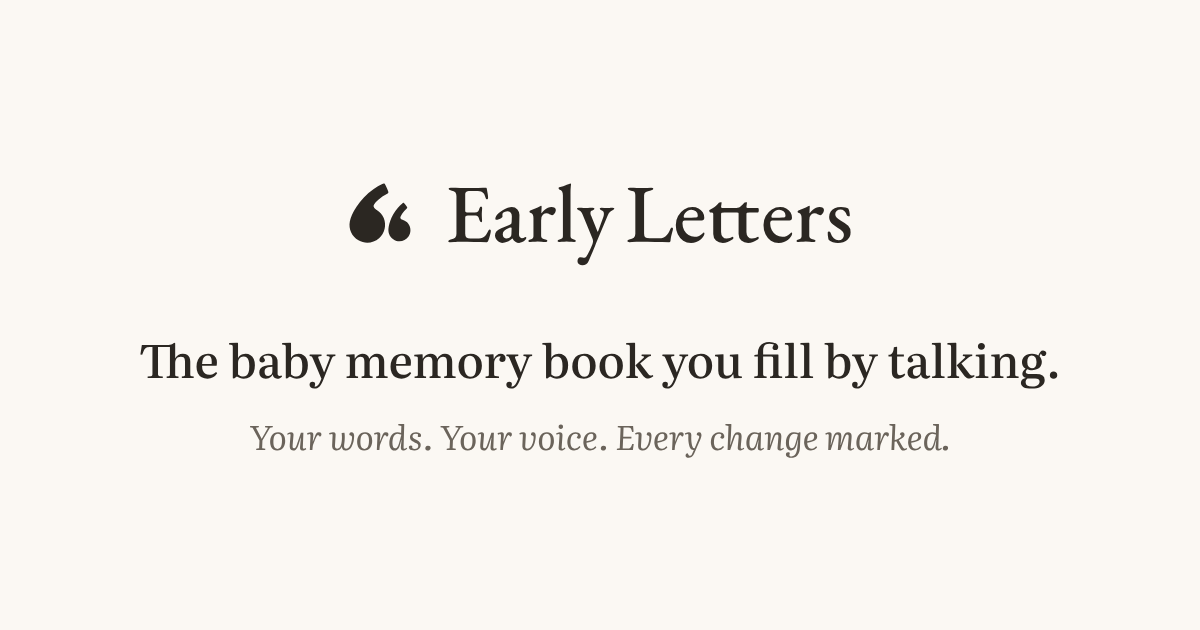
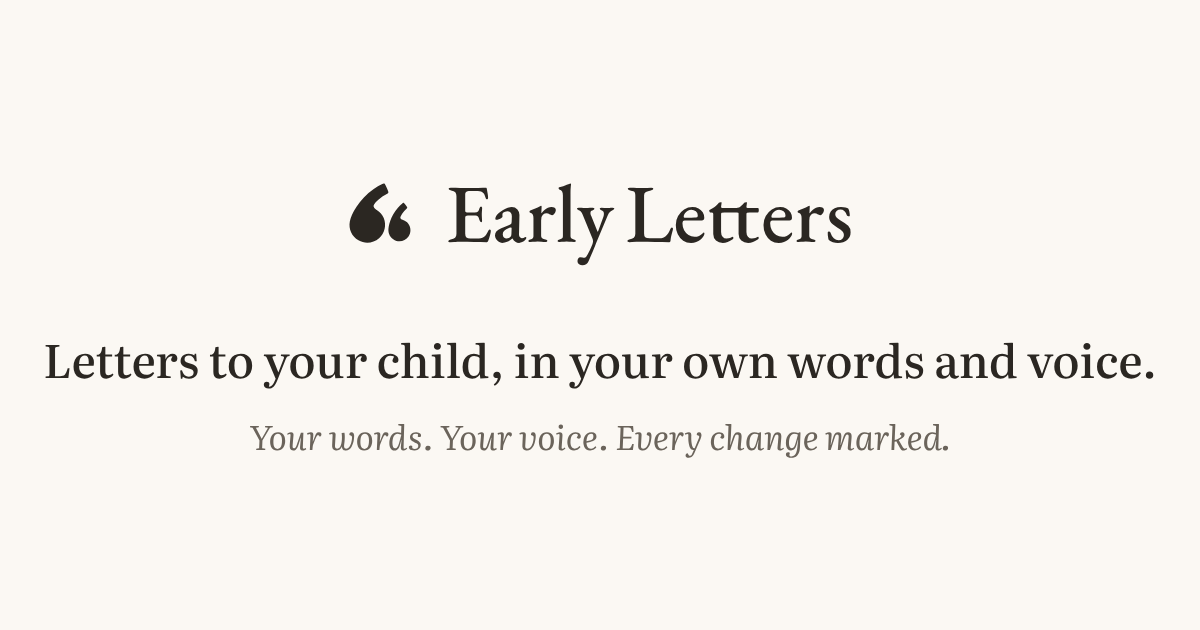
fix(store): promo and link-preview art carry the D-139 line; fresh character counts
Regenerated link-preview-category, promo-square and promo-story from
build.mjs (other renders unchanged); counts in the superseded listing
files recomputed with code. Review B on #594.

Agent: store-listing
Claude-Session: https://claude.ai/code/session_011xCXvx37XsvvmuLFjMVDGJ

Changed region(s): [[0.0308, 0.5429, 0.9558, 0.6333]]

diff --git a/docs/store/listing/apple.md b/docs/store/listing/apple.md
@@ -30,7 +30,7 @@ journal,diary,keepsake,newborn,toddler,parents,mom,dad,family,audio,scrapbook,di
 - Secondary: Productivity (suggestion only; not stated in the repo. Alternative: leave unset).
 - Avoid Education and Kids: the brand never positions the product as learning, and the app is for adults.
 
-### Description (2775/4000)
+### Description (2783/4000)
 
 ```text
 Early Letters: letters to your child, in your own words and voice.

diff --git a/docs/store/app-store-staged-1.0-proposal.md b/docs/store/app-store-staged-1.0-proposal.md
@@ -26,7 +26,7 @@ Unchanged on purpose: name `Early Letters: Memory Book` (26 of 30), subtitle `Ba
 
 Keywords repeat no word from the name or subtitle, use no spaces and name no competitor. "Dictation" describes talking to write; check it against the final build's behaviour.
 
-## 3. Description (2557 / 4000)
+## 3. Description (2567 / 4000)
 
 ```text
 Early Letters: letters to your child, in your own words and voice.

diff --git a/docs/store/listing/google-play.md b/docs/store/listing/google-play.md
@@ -8,11 +8,11 @@ Generated from listing.json by render.mjs.
 
 Early Letters: Memory Book
 
-### Short description (65/80)
+### Short description (75/80)
 
 Letters to your child, in your own words and voice. It stays in your words.
 
-### Full description (2615/4000)
+### Full description (2623/4000)
 
 ```text
 Early Letters: letters to your child, in your own words and voice.
